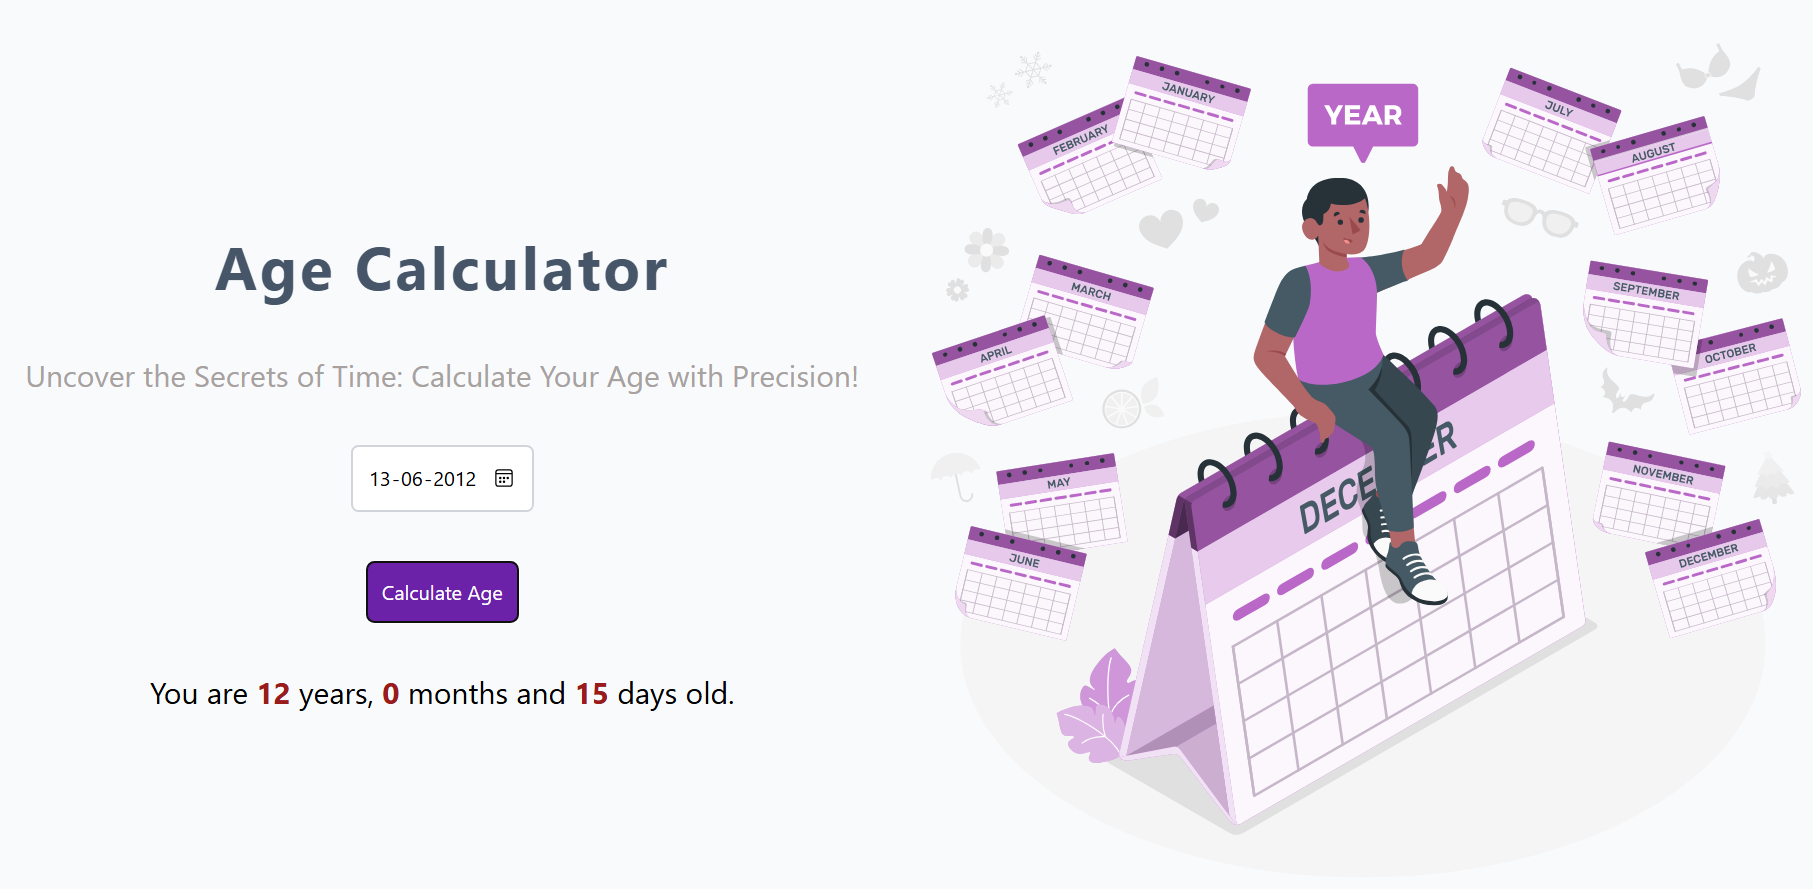
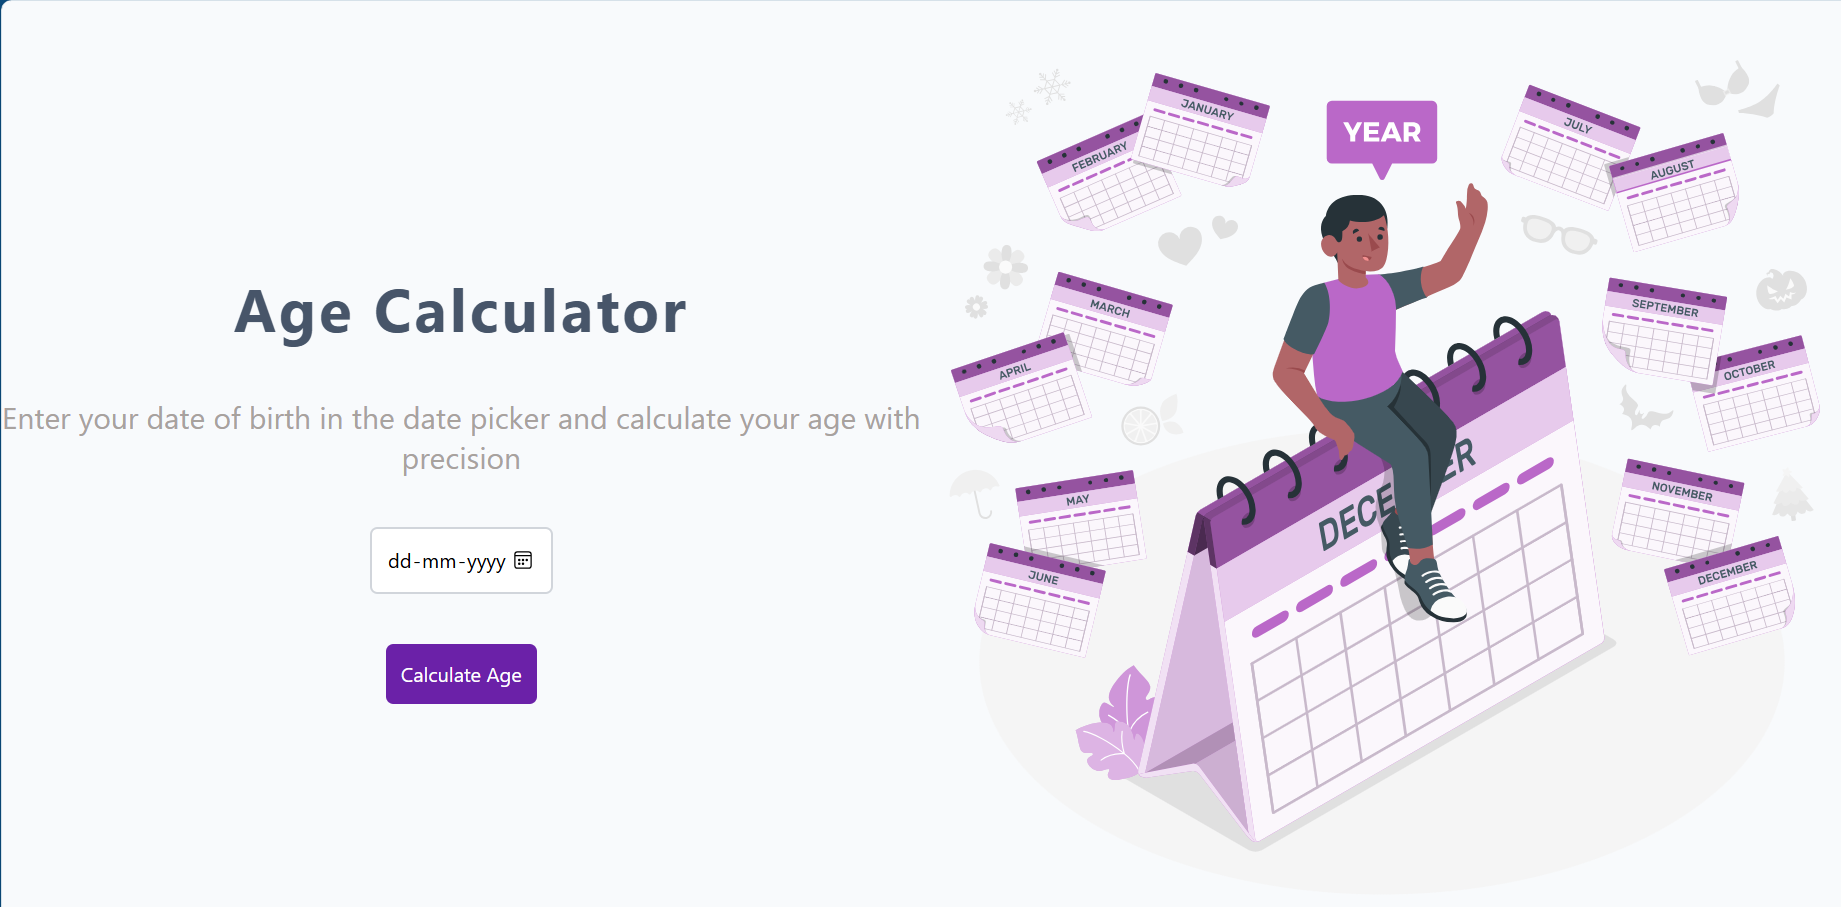
Issue#1181 fixed

diff --git a/Web Development/Basic/Age_Calculator/src/App.jsx b/Web Development/Basic/Age_Calculator/src/App.jsx
@@ -23,7 +23,7 @@ const App = () => {
       <div className='flex flex-col md:flex-row justify-end bg-slate-50'>
         <div className='self-center w-full md:w-1/2'>
           <h1 className='text-5xl font-bold tracking-wider my-12 text-center text-slate-600'>Age Calculator</h1>
-          <h3 className='text-2xl text-center text-stone-400'>Enter your date of birth in the date picker</h3>
+          <h3 className='text-2xl text-center text-stone-400'>Enter your date of birth in the date picker and calculate your age with precision</h3>
           <AgeCalculatorForm calculateAge={calculateAge} />
           {age && <AgeResult age={age} />}
         </div>

diff --git a/Web Development/Basic/Age_Calculator/README.md b/Web Development/Basic/Age_Calculator/README.md
@@ -65,6 +65,14 @@ This will start the development server and you can view the application in your 
 3. **Error Handling:**
    - If a future date is selected, an error message will be displayed prompting you to select a valid date of birth.
 
+## Screenshots
+
+![Age Calculator](./Images/age_calculator_ss.png)
+
+## Deployment Link
+
+The application is deployed on Vercel. You can access it [here](https://age-calculator-rho-two.vercel.app/).
+
 ## Issue Solved
 
   Solves Issue [#1181](https://github.com/Kushal997-das/Project-Guidance/issues/1181)
